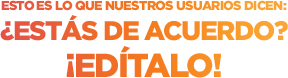
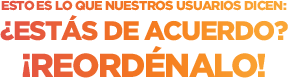
cambios al widget

Changed region(s): [[0.0625, 0.5897, 0.9375, 1.0]]

diff --git a/Src/symfony/src/Boom/Bundle/FrontBundle/Resources/public/css/style.css b/Src/symfony/src/Boom/Bundle/FrontBundle/Resources/public/css/style.css
@@ -2560,6 +2560,7 @@ fieldset.on .accordion_content {
   -ms-transition: height 300ms;
   -o-transition: height 300ms;
   height: auto;
+  min-height: 819px;
 }
 
 #usr-booms .botones {
@@ -2779,6 +2780,10 @@ span.arrow {
   clear: both;
 }
 
+.reordenalo {
+  margin-top: 20px;
+}
+
 .editalo span {
   font-size: 32px;
   display: block;
@@ -2899,7 +2904,7 @@ span.arrow {
   background: url(../images/share_fb.png) 30px center no-repeat;
 }
 
-.share-boom .close-share {
+.share-boom .close-share, .sign-in .close-share {
   color: #fff;
   font-size: 15px;
   position: absolute;
@@ -2920,6 +2925,16 @@ span.arrow {
   border: 2px solid #FFF;
   width: auto;
   margin: 20px 50px;
+}
+
+.fb-reg {
+  display: block;
+  position: relative;
+  width: 216px;
+  height: 35px;
+  background: url(../images/fb_reg.png);
+  text-indent: -9999px;
+  margin: 10px auto;
 }
 
 .shade {
@@ -2950,7 +2965,7 @@ span.arrow {
 .boom-clean {
   display: block;
   width: 290px;
-  margin: 100px 0px 20px 0px;
+  margin: 100px 0px 50px 0px;
   height: 228px;
   background: #313131;
   font: 31px 'Proxima', sans-serif;
@@ -2965,10 +2980,6 @@ span.arrow {
 
 .boom-clean.hidden{
     display:none;
-}
-
-.boom-clean.on {
-
 }
 
 .boom-clean p span {

diff --git a/Src/symfony/src/Boom/Bundle/FrontBundle/Resources/views/Boom/blocks/user_order.html.php b/Src/symfony/src/Boom/Bundle/FrontBundle/Resources/views/Boom/blocks/user_order.html.php
@@ -29,7 +29,7 @@ if ($view['security']->isGranted('ROLE_USER') == true) {
 <div id="usr-booms" class="hook">
     <div class="shade">shade</div>
     <div class="botones">
-        <a href="#" class="on" id="tendencia">Tendencias</a>
+        <a href="#" class="on" id="tendencia">7boom dice</a>
         <?php if (!$isOwner): ?>
             <span class="divider">divider</span>
             <a href="#" id="miboom">Mi Boom</a>
@@ -57,7 +57,7 @@ if ($view['security']->isGranted('ROLE_USER') == true) {
                     </li>
                 <?php endforeach; ?>
             </ul>
-            <a href="<?php echo $view['router']->generate('BoomFrontBundle_boom_reorder', array('slug' => $entity['slug'], '_format' => 'json')); ?>" class="editalo disabled">Editar</a>
+            <a href="<?php echo $view['router']->generate('BoomFrontBundle_boom_reorder', array('slug' => $entity['slug'], '_format' => 'json')); ?>" class="editalo disabled">Guardar</a>
         </div>
         <?php if (!$isOwner): ?>
             <div class="dyna-content miboom-cont">
@@ -100,6 +100,7 @@ if ($view['security']->isGranted('ROLE_USER') == true) {
                     }
                 ?>
                 <a href="<?php echo $view['router']->generate($replyUrl, array('slug' => $entityUrl)); ?>" class="editalo">¡Edítalo!</a>
+                <a href="#" class="editalo reordenalo">¡Reordénalo!</a>
             </div>
         <?php endif; ?>
     </div>
@@ -116,7 +117,8 @@ if ($view['security']->isGranted('ROLE_USER') == true) {
         <div class="sign-in">
             <h3>¡Alto ahí!</h3>
             <p>Nos encantó cómo quedó tu boom, pero para guardarlo, compartir y usar todos nuestros ósom features, debes registrarte primero.</p>
-            <a href="#" class="grey-btn">Regístrate</a>
+            <a href="#" class="fb-reg">Regístrate con Facebook</a>
+            <a href="#" class="close-share">&#10005;</a>
         </div>
     </div>
 </div>
